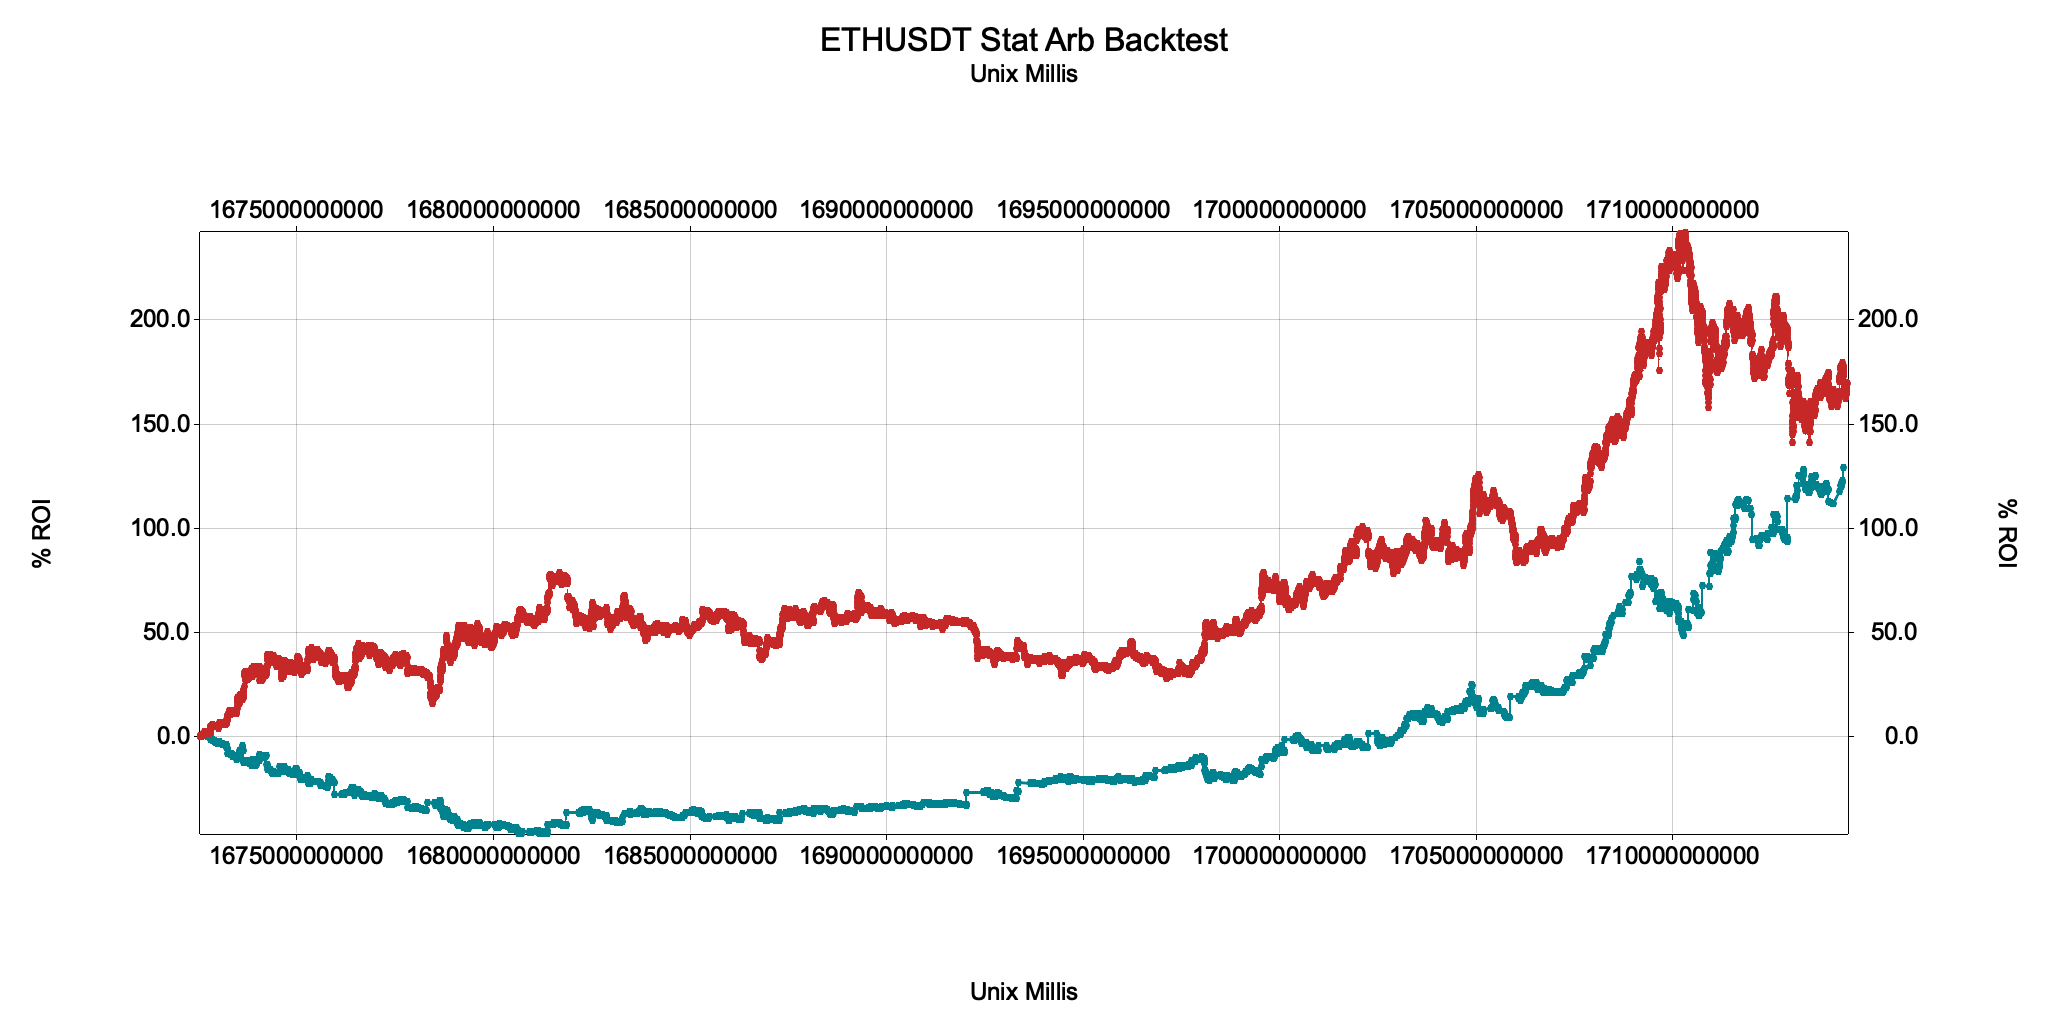
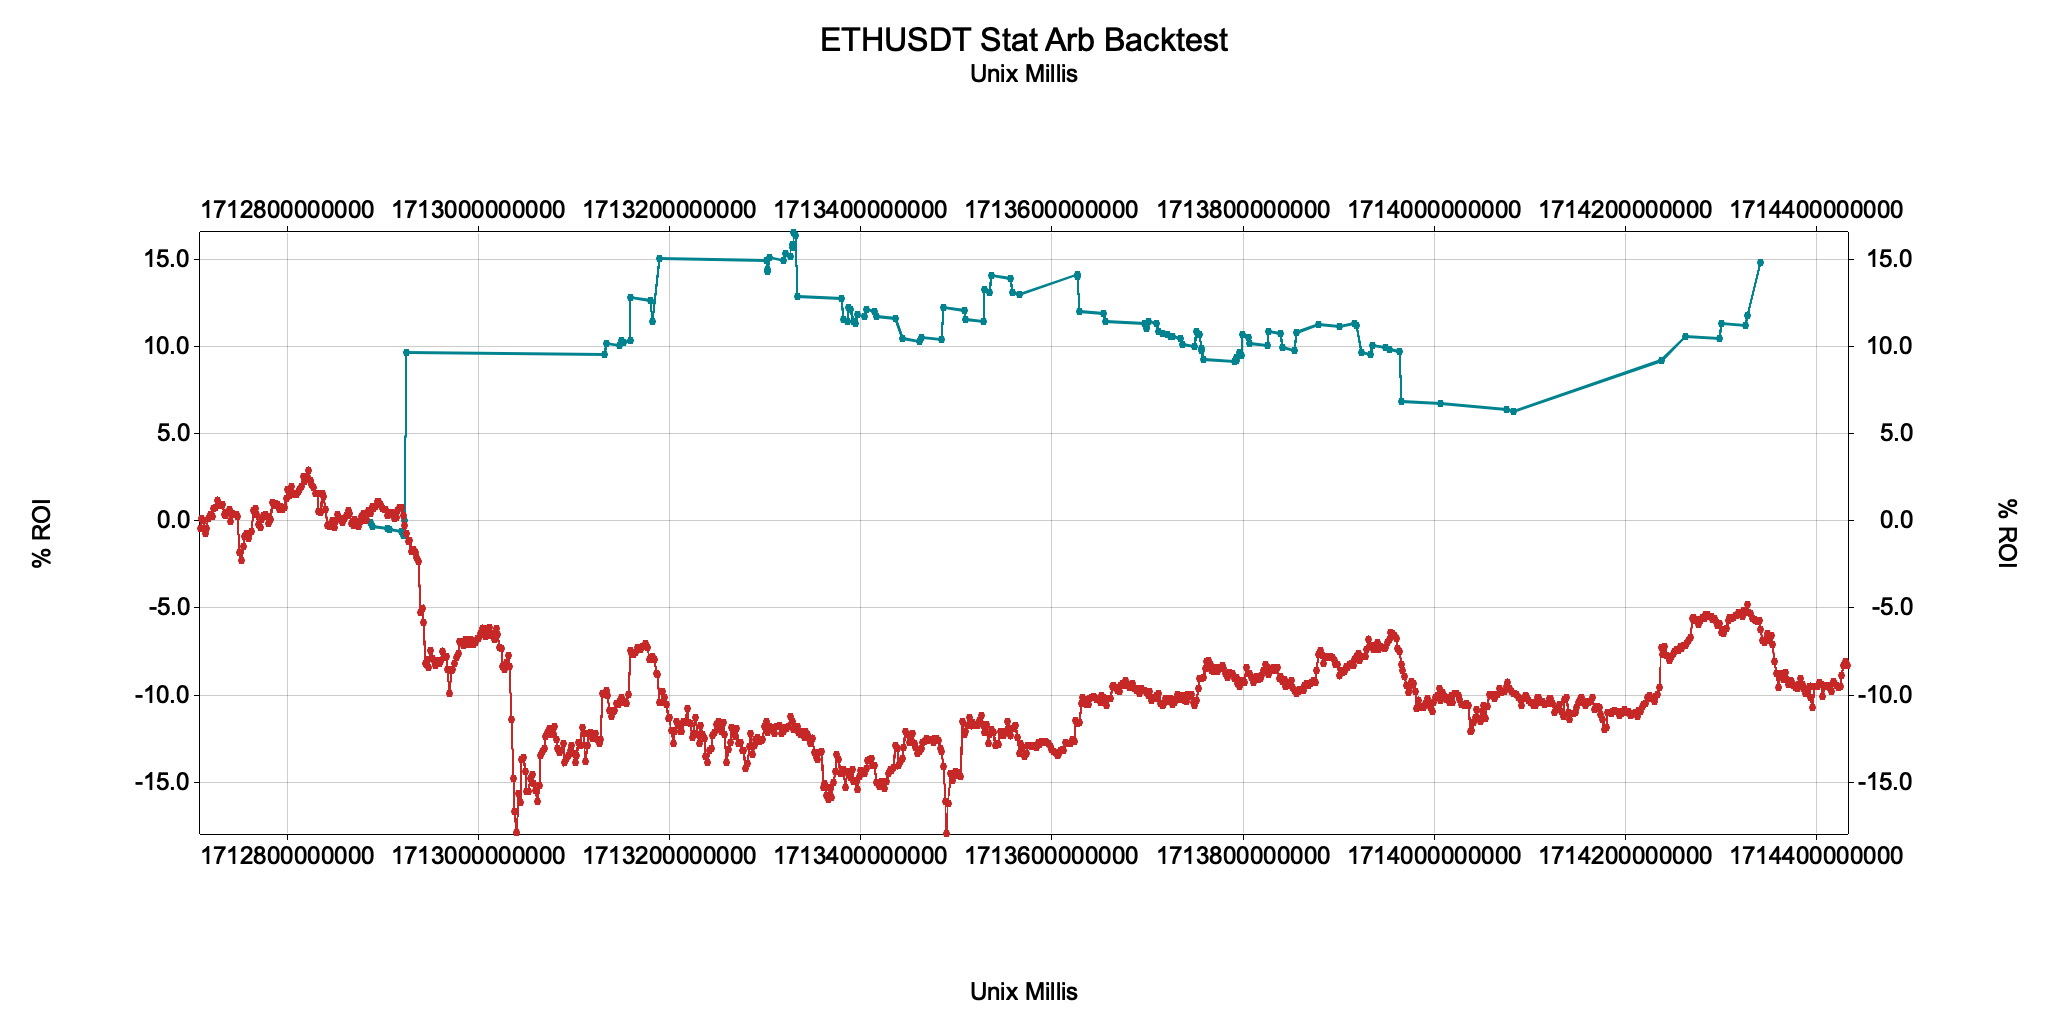
cache changes

diff --git a/playbook/src/strategies/stat_arb.rs b/playbook/src/strategies/stat_arb.rs
@@ -176,20 +176,20 @@ async fn btc_eth_stat_arb() -> anyhow::Result<()> {
   use std::collections::HashSet;
   dotenv::dotenv().ok();
 
-  let start_time = Time::new(2023, &Month::from_num(1), &Day::from_num(1), None, None, None);
-  // let start_time = Time::new(2024, &Month::from_num(4), &Day::from_num(1), None, None, None);
+  // let start_time = Time::new(2023, &Month::from_num(1), &Day::from_num(1), None, None, None);
+  let start_time = Time::new(2024, &Month::from_num(4), &Day::from_num(10), None, None, None);
   let end_time = Time::new(2024, &Month::from_num(4), &Day::from_num(30), None, None, None);
 
   let capacity = 100;
   let window = 10;
   let threshold = 2.0;
   let stop_loss = 0.1;
-  
+
   let x_ticker = "BTCUSDT".to_string();
   let y_ticker = "ETHUSDT".to_string();
   let strat = StatArb::new(capacity, window,  threshold, x_ticker.clone(), y_ticker.clone());
 
-  let mut backtest = Backtest::new(strat.clone(), 1000.0, 0.0, true, 1);
+  let mut backtest = Backtest::new(strat.clone(), 1000.0, 0.02, true, 1);
   let btc_csv = PathBuf::from("btcusdt_30m.csv");
   let mut btc_candles = Backtest::<Data<f64>, StatArb>::csv_series(&btc_csv, Some(start_time), Some(end_time), x_ticker.clone())?.candles;
   let eth_csv = PathBuf::from("ethusdt_30m.csv");
@@ -215,7 +215,7 @@ async fn btc_eth_stat_arb() -> anyhow::Result<()> {
 
   println!("Backtest BTC candles: {}", backtest.candles.get(&x_ticker).unwrap().len());
   println!("Backtest ETH candles: {}", backtest.candles.get(&y_ticker).unwrap().len());
-  
+
   backtest.backtest(stop_loss)?;
 
   let all_buy_and_hold = backtest.buy_and_hold()?;
@@ -235,6 +235,18 @@ async fn btc_eth_stat_arb() -> anyhow::Result<()> {
         "% ROI",
         "Unix Millis"
       )?;
+      
+      let pcts = x_summary.pct_per_trade.data().iter().map(|d| d.y).collect::<Vec<f64>>();
+      let cum_pct_zscores = rolling_zscore(&pcts, 20).unwrap();
+      let data = cum_pct_zscores.iter().enumerate().map(|(i, x)| Data { x: i as i64, y: *x }).collect();
+      Plot::plot(
+        vec![data],
+        "stat_arb_btc_zscore.png",
+        "BTCUSDT Stat Arb Z Score Profit",
+        "% ROI",
+        "Unix Millis"
+      )?;
+      
     }
   }
   if let Some(trades) = backtest.trades.get(&y_ticker) {
@@ -250,6 +262,17 @@ async fn btc_eth_stat_arb() -> anyhow::Result<()> {
         vec![y_summary.cum_pct.data().clone(), y_bah],
         "stat_arb_eth_backtest.png",
         "ETHUSDT Stat Arb Backtest",
+        "% ROI",
+        "Unix Millis"
+      )?;
+
+      let pcts = y_summary.pct_per_trade.data().iter().map(|d| d.y).collect::<Vec<f64>>();
+      let cum_pct_zscores = rolling_zscore(&pcts, 20).unwrap();
+      let data = cum_pct_zscores.iter().enumerate().map(|(i, x)| Data { x: i as i64, y: *x }).collect();
+      Plot::plot(
+        vec![data],
+        "stat_arb_eth_zscore.png",
+        "ETHUSDT Stat Arb Z Score Profit",
         "% ROI",
         "Unix Millis"
       )?;
